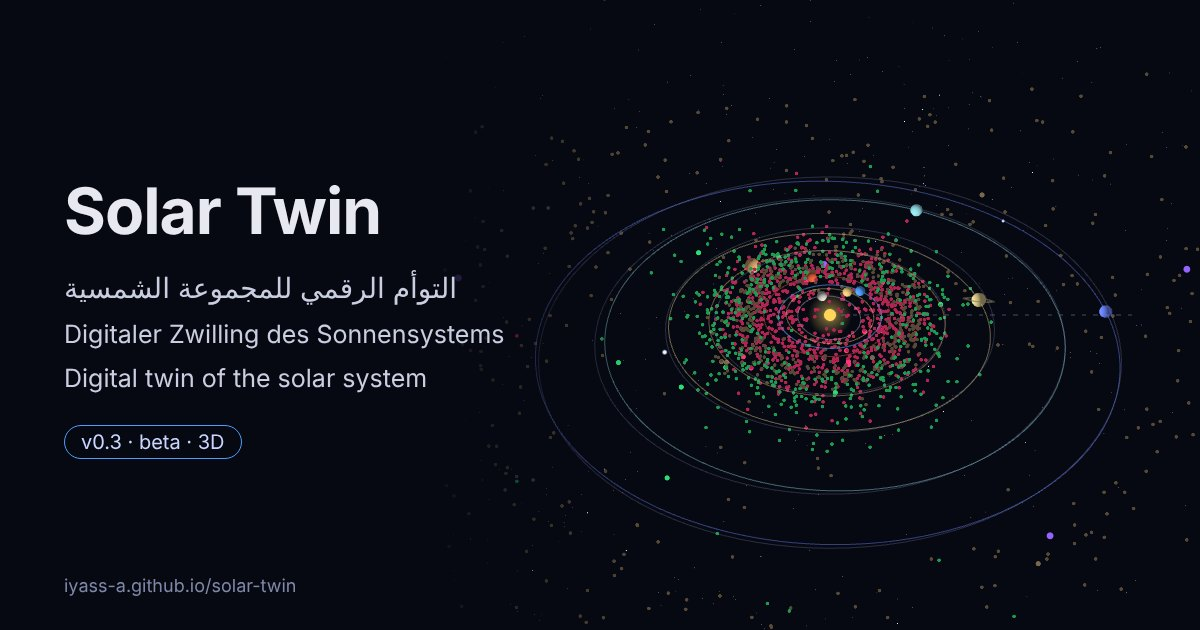
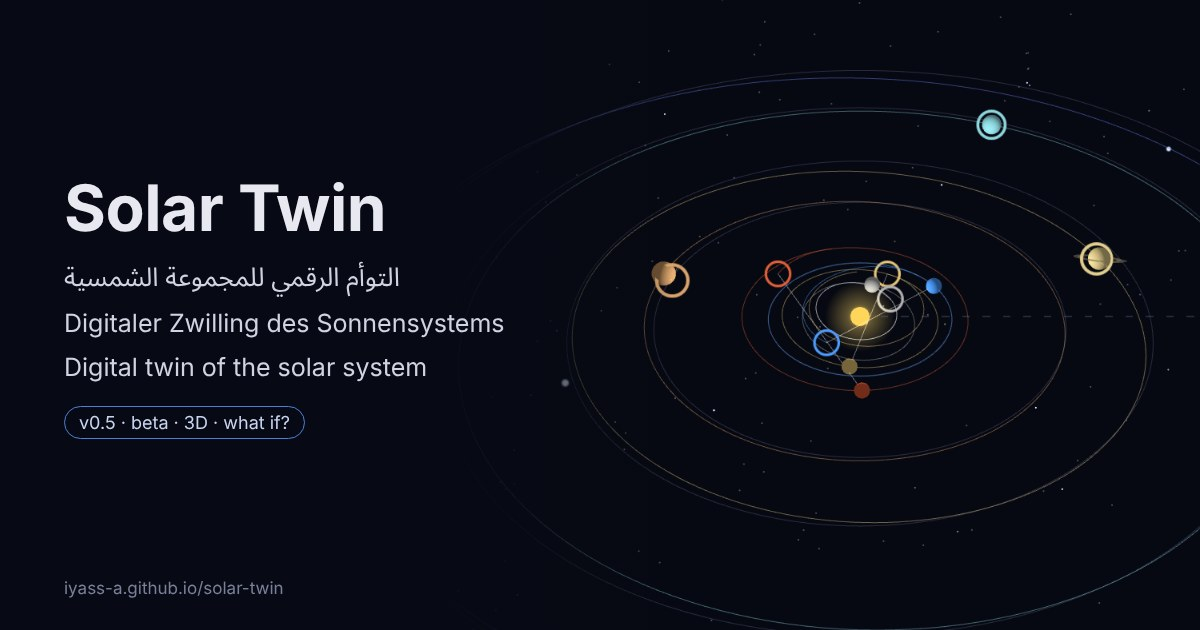
Prepare v0.5.0: version, changelog, tagline and link preview mention what-ifs
Version 0.5.0 (the badge follows). The changelog section becomes v0.5.0 with
its parts in order. The tagline, page description and link preview mention
the what-if experiments, with a new preview image: the Sun twice as heavy,
empty circles showing where the planets would be.

Claude-Session: https://claude.ai/code/session_011RkFqqQ5ebmtAotQ8BqK1v

diff --git a/index.html b/index.html
@@ -7,20 +7,20 @@
     <meta name="theme-color" content="#0b0d17" />
     <title>Solar Twin</title>
     <meta name="description"
-          content="المواقع الحقيقية للكواكب وأكتر من 2,000 كويكب ومذنب بالمتصفح، بثلاثي الأبعاد، مع بيانات حيّة: مركبات ناسا، طقس الفضاء، والكويكبات القريبة · Die echten Positionen der Planeten und von über 2.000 Asteroiden und Kometen im Browser, in 3D, mit Live-Daten: NASA-Raumsonden, Weltraumwetter, nahe Asteroiden · The real positions of the planets and over 2,000 asteroids and comets in your browser, in 3D, with live data: NASA spacecraft, space weather, close approaches." />
+          content="المواقع الحقيقية للكواكب وأكتر من 2,000 كويكب ومذنب بالمتصفح، بثلاثي الأبعاد، مع بيانات حيّة (مركبات ناسا، طقس الفضاء، والكويكبات القريبة) وتجارب «شو لو» بمحرك فيزياء · Die echten Positionen der Planeten und von über 2.000 Asteroiden und Kometen im Browser, in 3D, mit Live-Daten (NASA-Raumsonden, Weltraumwetter, nahe Asteroiden) und Was-wäre-wenn-Experimenten mit einer Physik-Engine · The real positions of the planets and over 2,000 asteroids and comets in your browser, in 3D, with live data (NASA spacecraft, space weather, close approaches) and what-if experiments with a physics engine." />
 
     <!-- Link preview (WhatsApp, Telegram, Signal, social media) -->
     <meta property="og:type" content="website" />
     <meta property="og:site_name" content="Solar Twin" />
     <meta property="og:title" content="Solar Twin · التوأم الرقمي للمجموعة الشمسية" />
     <meta property="og:description"
-          content="الكواكب وأكتر من 2,000 كويكب ومذنب بمواقعهم الحقيقية، وشو عم يصير بالفضاء هلأ · Digitaler Zwilling des Sonnensystems, mit Live-Daten · Digital twin of the solar system, with live data" />
+          content="الكواكب وأكتر من 2,000 كويكب ومذنب بمواقعهم الحقيقية، شو عم يصير بالفضاء هلأ، وشو كان صار لو تغيّر شي · Digitaler Zwilling des Sonnensystems, mit Live-Daten und Was-wäre-wenn · Digital twin of the solar system, with live data and what-ifs" />
     <meta property="og:url" content="https://iyass-a.github.io/solar-twin/" />
     <meta property="og:image" content="https://iyass-a.github.io/solar-twin/og.jpg" />
     <meta property="og:image:type" content="image/jpeg" />
     <meta property="og:image:width" content="1200" />
     <meta property="og:image:height" content="630" />
-    <meta property="og:image:alt" content="The planets, asteroids and comets around the Sun in 3D, with their orbits and the real stars behind them" />
+    <meta property="og:image:alt" content="The planets around the Sun in 3D, with their orbits; empty circles show where they would be if the Sun were twice as heavy" />
     <meta name="twitter:card" content="summary_large_image" />
   </head>
   <body>

diff --git a/src/i18n.ts b/src/i18n.ts
@@ -376,7 +376,7 @@ function enDuration(minutes: number): string {
 
 const AR: Strings = {
   title: 'التوأم الرقمي للمجموعة الشمسية',
-  tagline: 'المواقع الحقيقية للكواكب وأكتر من 2,000 كويكب ومذنب، وشو عم يصير بالفضاء هلأ',
+  tagline: 'المواقع الحقيقية للكواكب وأكتر من 2,000 كويكب ومذنب، شو عم يصير بالفضاء هلأ، وشو كان صار لو تغيّر شي',
   beta: 'تجريبية',
   feedback: 'عندك ملاحظة؟',
   language: 'اللغة',
@@ -706,7 +706,7 @@ const AR: Strings = {
 
 const DE: Strings = {
   title: 'Digitaler Zwilling des Sonnensystems',
-  tagline: 'Die echten Positionen der Planeten und von über 2.000 Asteroiden und Kometen, und was gerade im All passiert',
+  tagline: 'Die echten Positionen der Planeten und von über 2.000 Asteroiden und Kometen, was gerade im All passiert, und was wäre, wenn sich etwas ändert',
   beta: 'Beta',
   feedback: 'Feedback geben',
   language: 'Sprache',
@@ -1035,7 +1035,7 @@ const DE: Strings = {
 
 const EN: Strings = {
   title: 'Digital Twin of the Solar System',
-  tagline: 'The real positions of the planets and over 2,000 asteroids and comets, and what is happening in space right now',
+  tagline: 'The real positions of the planets and over 2,000 asteroids and comets, what is happening in space right now, and what would happen if something changed',
   beta: 'beta',
   feedback: 'Send feedback',
   language: 'Language',

diff --git a/CHANGELOG.md b/CHANGELOG.md
@@ -1,17 +1,18 @@
 # Changelog
 
-## Unreleased
+## v0.5.0 (15 November 2026), public beta
 
+- Version 0.5.0. **Branch reality** with our own physics engine: change the solar system (take a planet out, change a mass, push a planet, let a star pass) and watch the copy run next to reality, with a table of the differences, or start one of three ready-made scenarios with one click. The tagline and link preview mention it, with a new preview image (the Sun twice as heavy: empty circles show where the planets would be).
 - Physics engine, part 1: **the starting state.** Position and velocity of the Sun, the eight planets, the seven moons larger than Pluto (Moon, Io, Europa, Ganymede, Callisto, Titan, Triton) and the barycentres of the nine planetary systems (Pluto's too) at 15 November 2026, 00:00 TDB, from JPL Horizons, with their masses from DE440 and JPL's satellite table (`src/physics/`, `src/data/state-vectors.json`). A planet stands for itself and its smaller moons; each planet and its moons are moved together onto their system's barycentre (up to 1,200 km, for Uranus), keeping the moons' orbits. A new workflow (`fetch-state-vectors.yml`, by hand only, read-only) fetches them and positions every 5 days for a year after, to check the engine against later. Nothing on the page changes yet. `npm run check` checks the masses against known ratios and Horizons' own, the states against Astronomy Engine and the site's planets, and that every moon is bound to its planet at its known distance, going the known way round (Triton backwards).
 - Physics engine, part 2: **the integrator** (`src/physics/nbody.ts`): Newtonian gravity between all bodies, stepped with the leapfrog (velocity Verlet) or Yoshida's 4th-order composition of it, both symplectic and time-reversible, plus the equatorial bulges (J2) of Jupiter, Saturn and Neptune, without which Io would be some 90° off after a year. Against Horizons after a year: the planets within 0.001° (Mercury, 1,200 km, before relativity was added in part 4), the moons within 0.22° round their planet (Titan), the energy within 3·10⁻¹⁰, and a year takes about 20 ms as systems, 0.25 s with the moons. `npm run check` tests the order of each method on a Kepler orbit, running backwards to the start, momentum, angular momentum and energy (also over a century), the bulges (each moon near its planet's equator, Triton backwards), and the year against Horizons.
 - Physics engine, part 3: **a Web Worker** (`src/physics/worker.ts`), so the page never waits for it. The page names its simulations, starts them as systems or with moons, branches one off another, and asks for a time (`src/physics/client.ts`); the worker runs towards the latest time asked in slices of 8 ms, so a newer request (the time bar moved again) replaces an older one at once, and long runs report progress. The results are exactly those of stepping directly, in Chrome as in Node. In Chrome: a year as systems in about 10 ms, 200 years in 0.35 s, with the page never pausing more than 12 ms. `npm run check` runs the same engine: same numbers, a replaced run, branches, and refusals. Nothing on the page uses it yet.
+- Physics engine, part 4: **checked over the whole time bar.** General relativity near the Sun (first post-Newtonian order, as REBOUNDx "gr"): it turns Mercury's perihelion by 42.91″ a century (known: 42.98″) and takes Mercury from 1,162 km to 47 km off Horizons after a year. Because it depends on velocity, the last half kick of each step is solved for the new velocity; without that the orbits slowly lost energy (Mercury 2° off after a century). The default step is now 1/400 of the shortest orbit at its closest point, from each orbit's size and eccentricity, so it no longer depends on where the planets are at the start (0.156 day as systems, 0.0044 day with moons). Back to 1800 and on to 2050 against Astronomy Engine: every planet within 0.017° (Mercury, 1820), a tenth of the site's Kepler planets (0.21°); "good enough to show" is set at 0.05°. In Chrome, 200 years take 1.4 s while the page never pauses more than 11 ms. `npm run check` adds the relativity test and the whole time bar; breaking the relativity sign, the solved kick, the step or the eccentricity term on purpose was caught each time.
 - Physics engine, part 5a: **changes for "branch reality"** (`edit` in `src/physics/protocol.ts`, `client.edit()`): take a body out (a planet with its moons), multiply its mass, push it faster or slower along its motion (its moons along), or add one, such as a passing star, at the sim's current time. The step and the energy baseline follow the changed system. `npm run check` tests each against physics: without Jupiter the momentum drops by exactly Jupiter's; with the Sun twice as heavy Earth swings between 0.334 and 0.989 au, as vis-viva says; Earth pushed by 5 km/s goes out to 2.174 au (vis-viva: 2.173); a star aimed to pass at 1,000 au in 100 years passes at 999.9 au after 100.1 years. Through the worker's engine the same changes give exactly the same numbers; bad changes are refused. Breaking the bookkeeping on purpose (bulges or the Sun's index after a removal, moons left behind by a push, a point added from the wrong origin, an old energy baseline) was caught each time. Nothing on the page uses it yet.
 - **Branch reality** (part 5b, experimental): a new card under the time controls. Pick what to change (take a planet out with its moons, multiply the Sun's or a planet's mass, push a planet faster or slower along its motion, or let a star pass, by default 50 au away in 10 years at 20 km/s in the plane of Earth's orbit) and press "Branch": the engine copies the system at the date on screen, changes it and runs the copy on as the time bar moves. On the map and in 3D the copy's planets are empty circles with their recent path (positions along each run come with its result, so the path follows the curve even at a year per second), and a dotted line to the real planet once they drift apart; a star off the map gets an arrow at the edge with its distance in au. Before the branch's date the card says the branch does not exist yet; "Back to reality" removes it. The engine starts only when the card is first used (its file is 14 kB). Forking takes under a second in Chrome. A star must pass before 2050, so it can be watched. In all three languages. `npm run check` also checks the positions along a run.
 - **Branch reality, compared** (part 6): the engine's reality now runs on next to the branch, the same calculation without the change, and the card compares them at the same moment for each planet (and a passing star): its year on its orbit now, worked out from its position and velocity relative to the Sun ("escaping" when it no longer orbits), its distance from the Sun, and how far it is from where it would be (km, million km or au), with the real value under each. So every difference shown comes from the change alone: a year after the Sun doubles, Earth's year is 139 days; a year without Jupiter, Mars is 106,000 km from its real place; with a star passing 1,000 au away, Neptune is 2,300 km off by 2030. "Go to the start of the branch" brings the time back. In 3D, a passing star off the screen gets an arrow at the edge with its distance, as on the map. The worker now sends velocities with each state and masses with each "ready". `npm run check` checks the years from the orbits now (Earth, Mars, Jupiter, Neptune within 0.02%), that Earth 13 km/s faster escapes, that Earth's new year with the Sun doubled is the one timed from closest point to closest point (139.0 against 139.1 days), and that velocities and masses through the worker are exactly those of doing it directly; breaking the year or eccentricity formula on purpose was caught.
 - **Ready-made scenarios** (part 7): three buttons above the branch form, in all three languages. Each fills in the form (so it can be changed from there), goes to its date, branches and runs time at a fitting speed, and says what it does and what comes out: **What if Jupiter vanished?** (from 1 January 1900, a year per second: nothing flies off or falls into the Sun, but the orbits shift; by 2000 Saturn is about 220 million km from its real place and Earth about 700,000 km), **What if the Sun were twice as heavy?** (from 15 November 2026, a month per second: Earth's year becomes 139 days, it comes within 0.33 au of the Sun, and Jupiter's year is 4.7 years), and **A star passes 1,000 au away** (a star like the Sun in 2036, a year per second: nothing shows by eye; by the end of 2050 Neptune is only about 70,000 km off and Earth less than 100 km), with a button to bring the same star in to 50 au (Neptune's year about 100 instead of 165, Uranus's about 110 instead of 84, Neptune about 400 million km off). Links: `#branch-jupiter`, `#branch-sun`, `#branch-star`, `#branch-star50`; the address follows the scenario on show. `npm run check` runs each scenario through the engine as the page does and checks every number its text gives (and that every language gives them); moving a fact, a start date or the star's direction on purpose was caught.
 - The passing star now comes closest at ecliptic longitude −30° instead of 0°, so its arrow at the edge of the views no longer covers the equinox label. Its distance there has a thousands separator.
 - Fixes in "branch reality": the copy's planets are drawn at the time on screen (on their orbit round the Sun, from the engine's last answer, which is a few frames old: at a year per second Mercury's circle used to trail its planet by tens of degrees); a branch made while time runs now starts at the date asked (a late answer for the time bar's previous request could make it start where reality was, years earlier); and progress from a branch that was replaced no longer shows for the new one. While a branch is being prepared, the card says so, with the year reality has reached.
-- Physics engine, part 4: **checked over the whole time bar.** General relativity near the Sun (first post-Newtonian order, as REBOUNDx "gr"): it turns Mercury's perihelion by 42.91″ a century (known: 42.98″) and takes Mercury from 1,162 km to 47 km off Horizons after a year. Because it depends on velocity, the last half kick of each step is solved for the new velocity; without that the orbits slowly lost energy (Mercury 2° off after a century). The default step is now 1/400 of the shortest orbit at its closest point, from each orbit's size and eccentricity, so it no longer depends on where the planets are at the start (0.156 day as systems, 0.0044 day with moons). Back to 1800 and on to 2050 against Astronomy Engine: every planet within 0.017° (Mercury, 1820), a tenth of the site's Kepler planets (0.21°); "good enough to show" is set at 0.05°. In Chrome, 200 years take 1.4 s while the page never pauses more than 11 ms. `npm run check` adds the relativity test and the whole time bar; breaking the relativity sign, the solved kick, the step or the eccentricity term on purpose was caught each time.
 
 ## v0.4.0 (15 November 2026), public beta
 

diff --git a/README.md b/README.md
@@ -5,9 +5,9 @@
 
 **Open it:** https://iyass-a.github.io/solar-twin/ (Arabic, German, English)
 
-![The planets, asteroids and comets around the Sun in 3D, with the real stars behind them](public/og.jpg)
+![The planets around the Sun in 3D; empty circles show where they would be if the Sun were twice as heavy](public/og.jpg)
 
-Version 0.4, public beta.
+Version 0.5, public beta.
 
 ## What you can do
 
